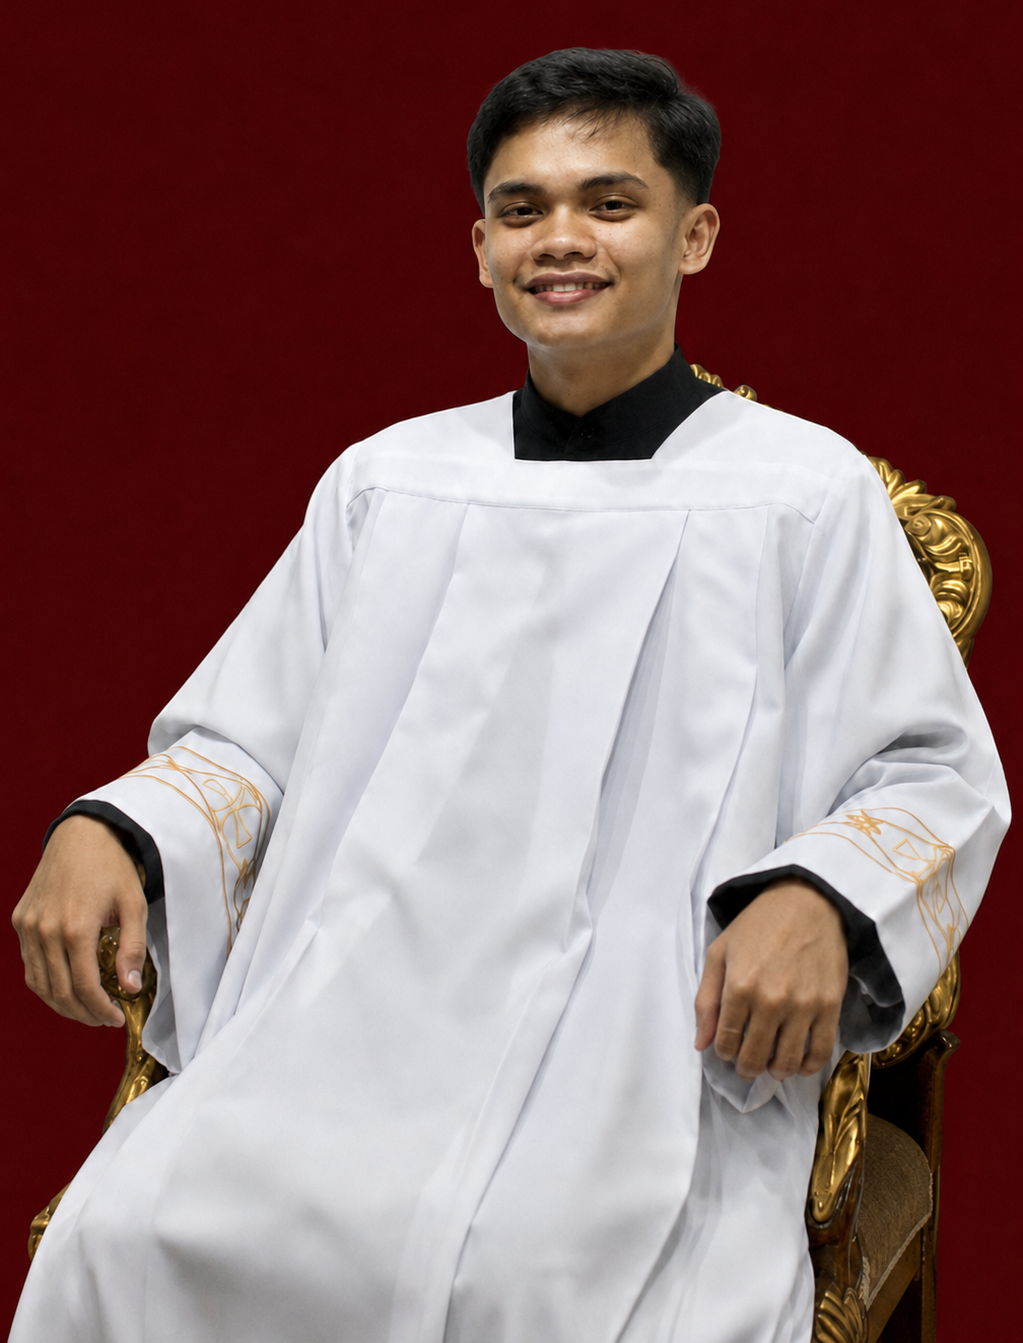
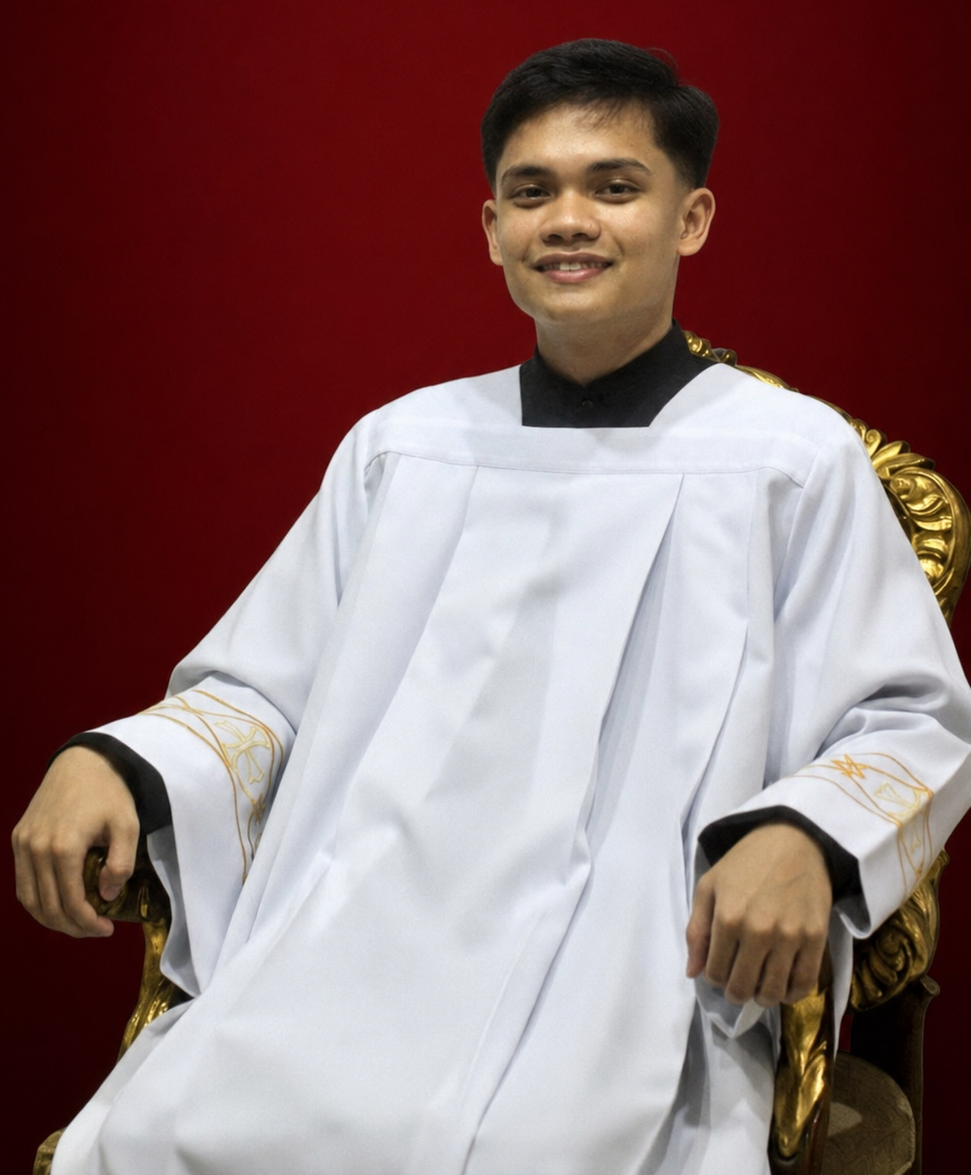
Make website fully responsive

diff --git a/src/components/Footer.jsx b/src/components/Footer.jsx
@@ -333,35 +333,38 @@ export default function Footer() {
               </svg>
             </button>
 
-            <div className="grid grid-cols-1 lg:grid-cols-[minmax(300px,380px)_1fr]">
+            <div
+              className="grid grid-cols-1 items-stretch
+    lg:h-[min(850px,88dvh)]
+    lg:grid-cols-[minmax(320px,400px)_1fr]"
+            >
               {/* Developer photograph */}
               <div
-                className="relative h-72 overflow-hidden
-                  bg-[#510708] sm:h-[420px] lg:h-full lg:min-h-[650px]"
+                className="relative flex aspect-[2/3] w-full
+    items-center justify-center overflow-hidden
+    bg-[#510708] sm:aspect-[2/3]
+    lg:aspect-auto lg:h-full"
               >
                 <img
                   src={developerPhoto}
                   alt="John Railey Pael, Web Developer"
                   className="absolute inset-0 h-full w-full
-                    object-cover object-top"
+      object-cover object-center"
                 />
 
                 <div
                   className="absolute inset-0 bg-gradient-to-t
-                    from-black/80 via-transparent to-black/10"
+      from-black/80 via-transparent to-black/10"
                 />
 
-                <div className="absolute bottom-0 left-0 w-full p-6">
-                  <p
-                    className="font-serif text-2xl font-bold
-                      text-white"
-                  >
+                <div className="absolute bottom-0 left-0 w-full p-5 sm:p-6">
+                  <p className="font-serif text-2xl font-bold text-white">
                     John Railey Pael
                   </p>
 
                   <p
                     className="mt-1 text-[10px] font-bold uppercase
-                      tracking-[0.16em] text-[#E6C84A]"
+        tracking-[0.16em] text-[#E6C84A]"
                   >
                     Web Developer · Altar Server
                   </p>
